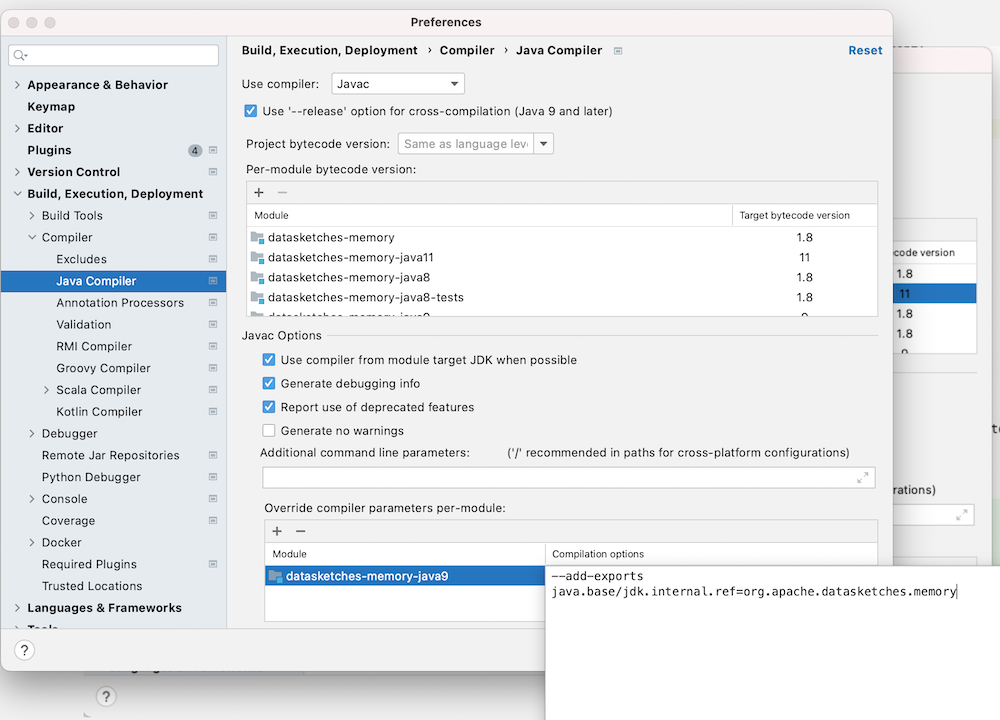
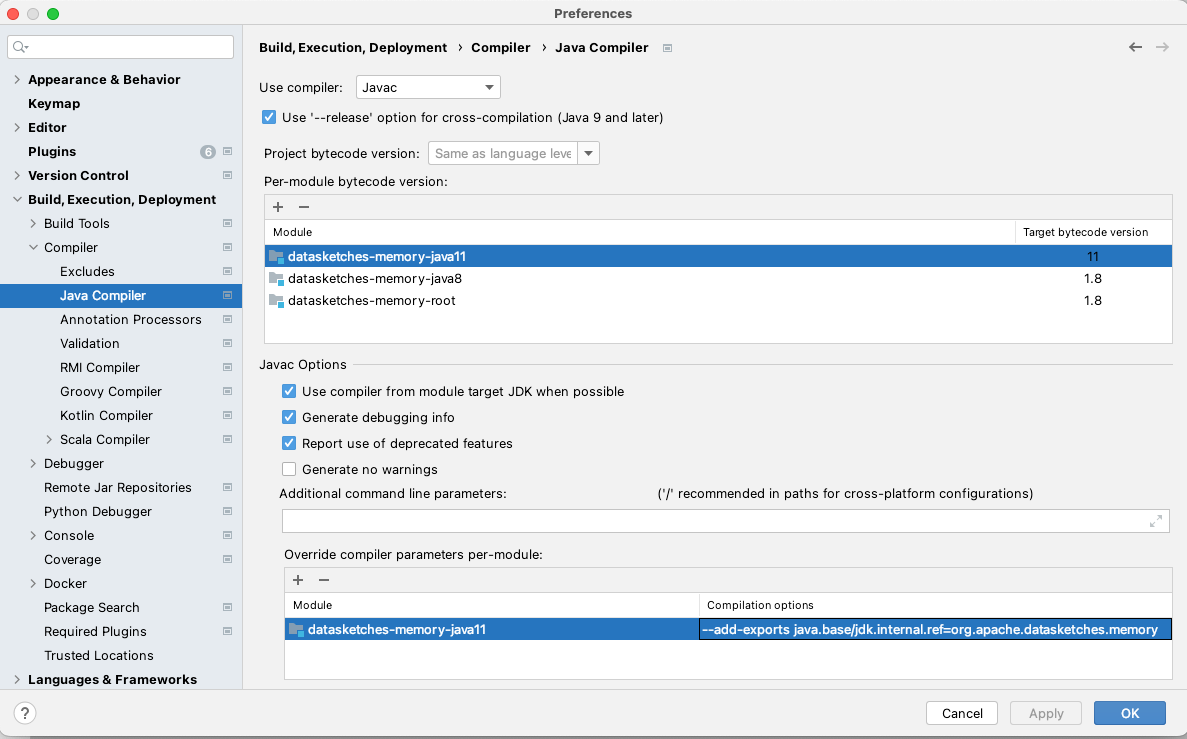
Update documentation

Changed region(s): [[0.0, 0.0, 1.0, 1.0]]

diff --git a/README.md b/README.md
@@ -59,21 +59,21 @@ Otherwise, if you are running Java 11-13 and ...
 
 * If your application **is not a JPMS module** use the following table. Choose the columns that describe your use of the Memory API.  If any of the columns contain a *Yes*, then the JVM argument in the first column of the row containing a *Yes* will be required. If you are not sure the extent of the Memory API being used, there is no harm in specifying all 4 JVM arguments. Note: do not embed any spaces in the full argument.
 
-| JVM Arguments for non-JPMS Applications                | Direct ByteBuffer | Direct | MemoryMapped Files |
-|:------------------------------------------------------:|:----------------:|:------:|:------------------:|
-| --add-exports java.base/jdk.internal.misc= ALL-UNNAMED |                  |  Yes   |                    |
-| --add-exports java.base/jdk.internal.ref= ALL-UNNAMED  |                  |  Yes   | Yes                |
-| --add-opens java.base/java.nio= ALL-UNNAMED            |                  |  Yes   | Yes                |
-| --add-opens java.base/sun.nio.ch= ALL-UNNAMED          |                  |        | Yes                |
+|        JVM Arguments for non-JPMS Applications         | Direct ByteBuffer | Direct | MemoryMapped Files |
+| :----------------------------------------------------: | :---------------: | :----: | :----------------: |
+| --add-exports java.base/jdk.internal.misc= ALL-UNNAMED |                   |  Yes   |                    |
+| --add-exports java.base/jdk.internal.ref= ALL-UNNAMED  |                   |  Yes   |        Yes         |
+|      --add-opens java.base/java.nio= ALL-UNNAMED       |                   |  Yes   |        Yes         |
+|     --add-opens java.base/sun.nio.ch= ALL-UNNAMED      |                   |        |        Yes         |
 
 * If your application **is a JPMS module** use the following table. Choose the columns that describe your use of the Memory API.  If any of the columns contain a *Yes*, then the JVM argument in the first column of the row containing a *Yes* will be required. If you are not sure the extent of the Memory API being used, there is no harm in specifying all 4 JVM arguments. Note: do not embed any spaces in the full argument.
 
-| JVM Arguments for JPMS Applications                                       | Direct ByteBuffer | Direct | MemoryMapped Files |
-|:-------------------------------------------------------------------------:|:----------------:|:------:|:------------------:|
-| --add-exports java.base/jdk.internal.misc= org.apache.datasketches.memory |                  |  Yes   |                    |
-| --add-exports java.base/jdk.internal.ref= org.apache.datasketches.memory  |                  |  Yes   | Yes                |
-| --add-opens java.base/java.nio= org.apache.datasketches.memory            |                  |  Yes   | Yes                |
-| --add-opens java.base/sun.nio.ch= org.apache.datasketches.memory          |  Yes             |        | Yes                |
+|                    JVM Arguments for JPMS Applications                    | Direct ByteBuffer | Direct | MemoryMapped Files |
+| :-----------------------------------------------------------------------: | :---------------: | :----: | :----------------: |
+| --add-exports java.base/jdk.internal.misc= org.apache.datasketches.memory |                   |  Yes   |                    |
+| --add-exports java.base/jdk.internal.ref= org.apache.datasketches.memory  |                   |  Yes   |        Yes         |
+|      --add-opens java.base/java.nio= org.apache.datasketches.memory       |                   |  Yes   |        Yes         |
+|     --add-opens java.base/sun.nio.ch= org.apache.datasketches.memory      |        Yes        |        |        Yes         |
 
 
 ## DEVELOPER USAGE
@@ -103,14 +103,6 @@ __NOTES:__
    order to ensure location-independent access to resources:
    [See Oracle Location-Independent Access to Resources](https://docs.oracle.com/javase/8/docs/technotes/guides/lang/resources.html)
 
-2) This project is structured as a Maven multi-module project.
-   Building this project might affect plugins that require early dependency resolution, such as the
-   javadoc and eclipse plugins.
-   The Maven build instructions below have been modified to use the `process-classes` phase (instead of `compile`)
-   for these use cases.
-
-   For more information, see this [Maven Reactor Issue](https://issues.apache.org/jira/browse/MNG-3283).
-
 #### Dependencies
 There are no run-time dependencies. See the pom.xml file for test dependencies.
 
@@ -135,15 +127,15 @@ To run the strict profile tests (only supported in Java 8):
 
 To run javadoc on this multi-module project, use:
 
-    mvn clean process-classes javadoc:javadoc -DskipTests=true
+    mvn clean javadoc:javadoc -DskipTests=true
 
-To run the CI tests against the multi-release JAR for specific JVM versions [11-13], use:
+To build the multi-release JAR, use:
 
-    mvn clean package -Denvironment=ci -Dmatrix.jdk.version=11
+    mvn clean package
 
 To run the eclipse plugin on this multi-module project, use:
 
-    mvn clean process-classes eclipse:eclipse -DskipTests=true
+    mvn clean eclipse:eclipse -DskipTests=true
 
 To install jars built from the downloaded source:
 

diff --git a/docs/eclipse.md b/docs/eclipse.md
@@ -29,22 +29,19 @@ development environment:
 
 ### Java compiler versions
 
-Settings are usually synchronised with Maven Toolchain configuration, otherwise the Java version 
+Settings are usually synchronized with Maven Toolchain configuration, otherwise the Java version 
 for a Maven module should be set as follows:
 
-| Maven submodule                   | JDK |
-| --------------------------------- | --- |
-| datasketches-memory-root          |  8  |
-| datasketches-memory               |  8  |
-| datasketches-memory-java8         |  8  |
-| datasketches-memory-java8-tests   |  8  |
-| datasketches-memory-java11        |  11 |
-| datasketches-memory-resources     |  8  |
+| Maven submodule            | JDK |
+| -------------------------- | --- |
+| datasketches-memory-root   | 8   |
+| datasketches-memory-java8  | 8   |
+| datasketches-memory-java11 | 11  |
 
 ### Compiler arguments for JPMS
 
 In order to compile Maven modules in Java versions 11 and above, it is necessary to provide the 
-following arguments to the compiler.  These are usually synchronised with the `pom.xml` 
+following arguments to the compiler.  These are usually synchronized with the `pom.xml` 
 configuration:
 
 ```xml
@@ -65,7 +62,7 @@ Note that the following configuration was verified using Eclipse Version: 2020-1
 The [Eclipse Maven plugin](https://maven.apache.org/plugins/maven-eclipse-plugin/) is used to 
 generate Eclipse IDE files.  In order to run the eclipse plugin use:
 
-    $ mvn clean process-classes eclipse:eclipse -DskipTests=true
+    $ mvn clean eclipse:eclipse -DskipTests=true
 
 More information about using the eclipse plugin with multi-module Maven builds can be found
 in the Maven 
@@ -124,7 +121,7 @@ compliance level is set for each module by using the Eclipse `Java Compiler` dia
 You might need to verify this for each module, making sure the correct compliance level is used:
 
 - `datasketches-memory-java11` should use level 11 compliance.
-- all other modules should use level 1.8 compliance.
+- `datasketches-memory-java8` should use level 1.8 compliance.
 
 ---
 
@@ -147,7 +144,7 @@ to the Java 8 JRE:
 
 ### Running unit tests
 
-- Under the `datasketches-memory-java-8-tests` module, right-click on the `src/test/java` 
+- Under the `datasketches-memory-java8` module, right-click on the `src/test/java` 
 directory.
 - Select **Run-As** / **TestNG Test**
 - It should open a new window and run over 400 tests without error.

diff --git a/docs/maven.md b/docs/maven.md
@@ -32,23 +32,16 @@ in Java8, but the `jdk.internal.ref.Cleaner` is used in Java 11.
 This project has been divided into the following submodules:
 
 * datasketches-memory-java8 (base version of the JVM that is currently supported)
-* datasketches-memory-java8-tests
 * datasketches-memory-java11 (Java11 equivalent of some platform specific classes in 
-datasketches-memory-java8)
-* datasketches-memory (MR-JAR assembly, does not contain source files)
-* datasketches-memory-resources (Runs test suite against assembled MR-JAR)
 
 ### Artifact assembly
 
-The [Maven assembly plugin](https://maven.apache.org/plugins/maven-assembly-plugin/) builds all 
-artifacts for this project from the other modules within the project.  
-These modules are complementary and not standalone. 
-Therefore, they are not installed and downloaded independently by the end user.
+During the Maven package phase, the [Maven exec plugin](https://www.mojohaus.org/exec-maven-plugin/index.html) 
+invokes a custom bash script `package-mr-jar.sh` located in the `tools/scripts` directory.   
+This script assembles sources and compiled classes from the individual maven modules into
+a coherent set of JARs that appear to the end user to originate from a single module.
 
-Instead, the Maven assembly plugin builds all jars, and hides the multi-module configuration 
-from the end user.
-
-The following jars are assembled by the `datasketches-memory` module:
+The following jars are assembled by the bash package script:
 
 * datasketches-memory-X.Y.Z.jar The compiled main class files.
 * datasketches-memory-X.Y.Z-tests.jar The compiled test class files.

diff --git a/docs/intellij.md b/docs/intellij.md
@@ -33,14 +33,11 @@ environment:
 Settings are usually synchronised with maven toolchain configuration, otherwise the Java version 
 for a maven module should be set as follows:
 
-| Maven submodule                   | JDK |
-| --------------------------------- | --- |
-| datasketches-memory-root          |  8  |
-| datasketches-memory               |  8  |
-| datasketches-memory-java8         |  8  |
-| datasketches-memory-java8-tests   |  8  |
-| datasketches-memory-java11        |  11 |
-| datasketches-memory-resources     |  8  |
+| Maven submodule            | JDK |
+| -------------------------- | --- |
+| datasketches-memory-root   | 8   |
+| datasketches-memory-java8  | 8   |
+| datasketches-memory-java11 | 11  |
 
 #### Compiler arguments for JPMS
 

diff --git a/docs/multi-release-jar.md b/docs/multi-release-jar.md
@@ -40,8 +40,11 @@ replacements for such internal APIs.
 
 ### Assembly
 
-The Maven assembly plugin uses the Maven submodules during the `package` phase.  
-The following maven submodules to source the compiled class files for the MR-JAR:
+During the Maven package phase, the [Maven exec plugin](https://www.mojohaus.org/exec-maven-plugin/index.html) 
+invokes a custom bash script `package-mr-jar.sh` located in the `tools/scripts` directory.   
+This script requires that the prior phases in the Maven lifecycle have been completed.
+
+The following maven submodules are used to source the compiled class files for the MR-JAR:
 
 ![MR-JAR maven module mapping](img/mr-jar-sources.png "MR-JAR maven module mapping")
 
